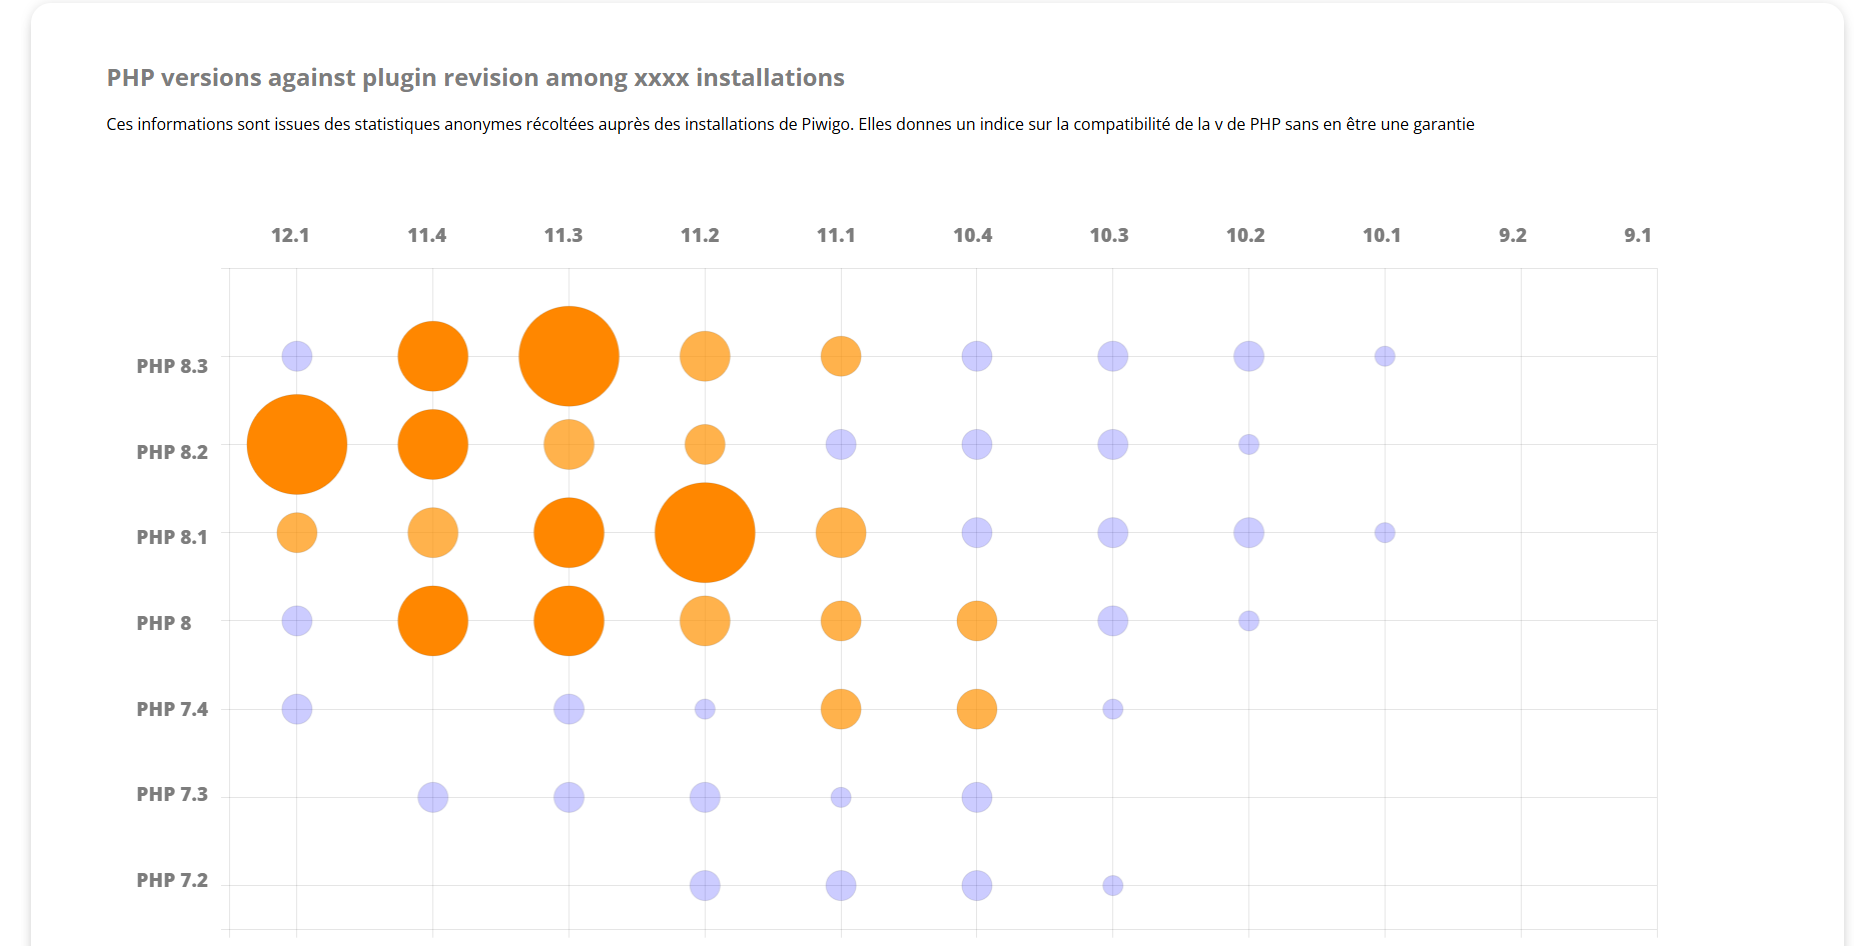
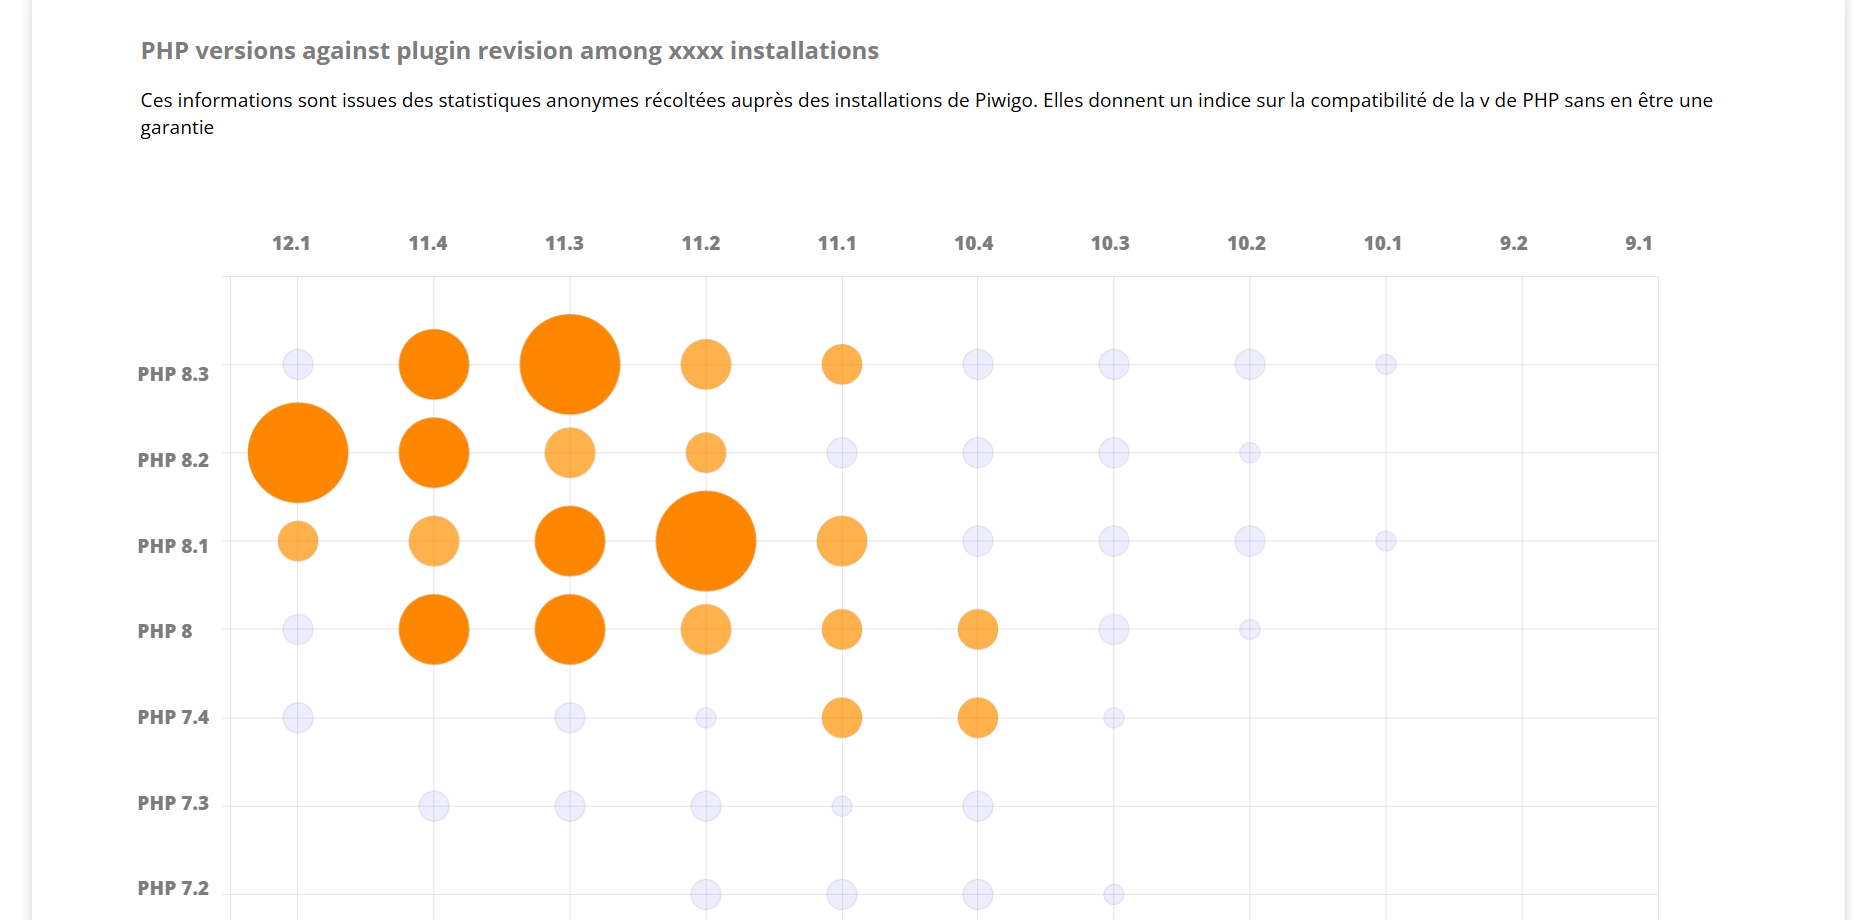
corrections finales du js et du README

diff --git a/assets/js/grid.js b/assets/js/grid.js
@@ -209,17 +209,8 @@ const data = {
                 y: 4,
                 r: 10
             }],
-            backgroundColor: 'rgba(0, 0, 255, 0.2)'
-        },
-        {
-            label: 'Phantom Dataset',
-            data: [{
-                x: 10,
-                y: 5,
-                r: 0
-            }],
-            backgroundColor: 'rgb(255,255, 255)'
-        },
+            backgroundColor: 'rgba(165, 165, 255, 0.2)'
+        }
     ]
 };
 
@@ -229,7 +220,15 @@ const config = {
     options: {
         plugins: {
             legend: {
-                display: false
+                display: false // on cache la légende, pas utile dans notre cas
+            },
+            tooltip: {
+                callbacks: {
+                    label: function(context) { // définit pour chaque tooltip le texte 'xxxxx installations'
+                        let label = 'xxxxx installations';
+                        return label;
+                    }
+                }
             }
         },
         scales: {
@@ -239,40 +238,39 @@ const config = {
                 max: 10,
                 ticks: {
                     stepSize: 1,
-                    display: false   // cache les nombres
+                    display: false   // cache les nombres/labels
                 },
                 border: {
                     display: false   // cache la ligne de l’axe
                 },
                 grid: {
-                    display: true    // garde la grille
+                    display: true    // garde la grille visible
                 }
             },
             y: {
+                type: 'linear',
                 min: 0 - 0.5, // permet de décaler pour avoir le point en entier, pas découpé
                 max: 7,
                 ticks: {
                     stepSize: 1,
-                    display: false   // cache les nombres
+                    display: false   // cache les nombres/labels
                 },
                 border: {
                     display: false   // cache la ligne de l’axe
                 },
                 grid: {
-                    display: true    // garde la grille
+                    display: true    // garde la grille visible
                 }
             },
-            bounds: 'ticks',
         }
     }
 };
 
 const ctx = document.getElementById('myChart');
 
-
 new Chart(ctx, config);
 
-function dotsSize() {
+function dotsSize() { // défini une taille aléatoire à chaque point du graphique, entre 5 et 55
     data.datasets.forEach(dataset => {
         dataset.data.forEach(dot => {
             dot.r = (Math.random() + 0.1) * 50

diff --git a/index.html b/index.html
@@ -5,16 +5,19 @@
     <meta charset="UTF-8">
     <meta name="viewport" content="width=device-width, initial-scale=1.0">
 
+    <!-- CSS -->
     <link rel="stylesheet" href="assets/css/index.css">
 
+    <!-- GOOGLE FONT -->
     <link rel="preconnect" href="https://fonts.googleapis.com">
     <link rel="preconnect" href="https://fonts.gstatic.com" crossorigin>
     <link href="https://fonts.googleapis.com/css2?family=Open+Sans:ital,wght@0,300..800;1,300..800&display=swap"
         rel="stylesheet">
 
+    <!-- LIBRAIRIE CHART.JS -->
     <script src="https://cdn.jsdelivr.net/npm/chart.js"></script>
 
-    <title>Document</title>
+    <title>Exercice 1 - Piwigo</title>
 </head>
 
 <body>
@@ -22,7 +25,7 @@
         <div id="head">
             <h2>PHP versions against plugin revision among xxxx installations</h2>
             <p>Ces informations sont issues des statistiques anonymes récoltées auprès des installations de Piwigo.
-                Elles donnes un indice sur la compatibilité de la v de PHP sans en être une garantie</p>
+                Elles donnent un indice sur la compatibilité de la v de PHP sans en être une garantie</p>
         </div>
         <div id="chart">
             <div id="columns">
@@ -48,7 +51,7 @@
                     <p>PHP 7.3</p>
                     <p>PHP 7.2</p>
                 </div>
-                <canvas id="myChart">
+                <canvas id="myChart"> <!-- Contient le graphique bubble chart-->
                 </canvas>
             </div>
 

diff --git a/assets/css/index.css b/assets/css/index.css
@@ -9,6 +9,14 @@ body {
     box-shadow:  0 10px 10px 0 rgba(0, 0, 0, 0.1), 0 0 10px 0 rgba(0, 0, 0, 0.1);
 }
 
+#head {
+    margin: 0 2%;
+}
+
+#head p {
+    font-size: larger;
+}
+
 h2, #chart {
     font-weight: bold;
     color: rgb(125, 125, 125);

diff --git a/README.md b/README.md
@@ -1,6 +1,7 @@
 # Piwigo_exercice1
 
-Réalisé par Estevan ROLLAND le 20/02/2026
+Réalisé par Estevan ROLLAND le 20/02/2026  
+Aucune IAg n'a été utilisée lors du projet
 
 ## Exercice d'entretient technique chez Piwigo
 
@@ -11,6 +12,9 @@ Implémenter en HTML/CSS/JS la maquette :
 
 Dans un premier temps, hardcoder des valeurs pour la taille des points orange. Dans un second temps, faire varier aléatoirement la valeur de chaque point au chargement de la page. Le rendu se fait via un repo Github.
 
+### Ressources utilisées :
+La librairie JavaScript Chart.js : https://www.chartjs.org/docs/latest/
+
 ### Résultats obtenus :
 
 #### Points de taille fixe, valeurs hardcodées
@@ -19,3 +23,4 @@ Dans un premier temps, hardcoder des valeurs pour la taille des points orange. D
 #### Points de taille aléatoire, change à chaque reload de la page
 ![résultat points taille aléatoire 1](assets/imgs/results1.png) 
 ![résultat points taille aléatoire 2](assets/imgs/results2.png) 
+![résultat points taille aléatoire 3](assets/imgs/results3.png) 
